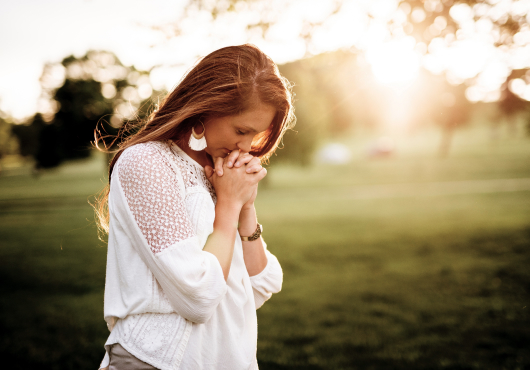
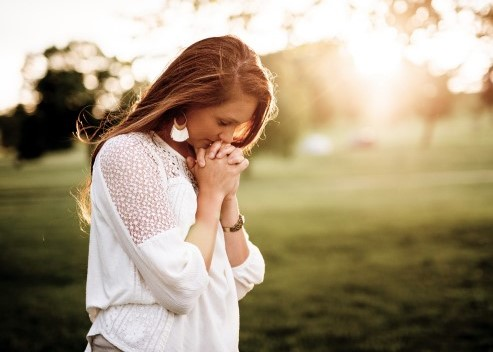
Foto Mujeres Con Proposito

diff --git a/index.php b/index.php
@@ -155,7 +155,7 @@
             </div>
             <div class="col-md-6 col-lg-4 wow fadeInUp" data-wow-delay=".2s">
               <div class="post-classic">
-                <div class="post-classic__media"><a href="lecturas/ART00002-20200724.php"><img src="images/thumbnail-2-530x370.jpg" alt="" width="530" height="370"/></a></div>
+                <div class="post-classic__media"><a href="lecturas/ART00002-20200724.php"><img src="images/MujeresProposito.jpeg" alt="" width="530" height="370"/></a></div>
                 <div class="post-classic__caption"><span class="post-info">Familias para Cristo,  24 de julio, 2020 </span>
                   <h3 class="post-title"><a href="lecturas/ART00002-20200724.php">Mujeres con Propósito
 </a></h3><a class="btn btn-icon btn-icon-right btn-transparent btn-svg" href="lecturas/ART00002-20200724.php"><span class="svg-icon">
